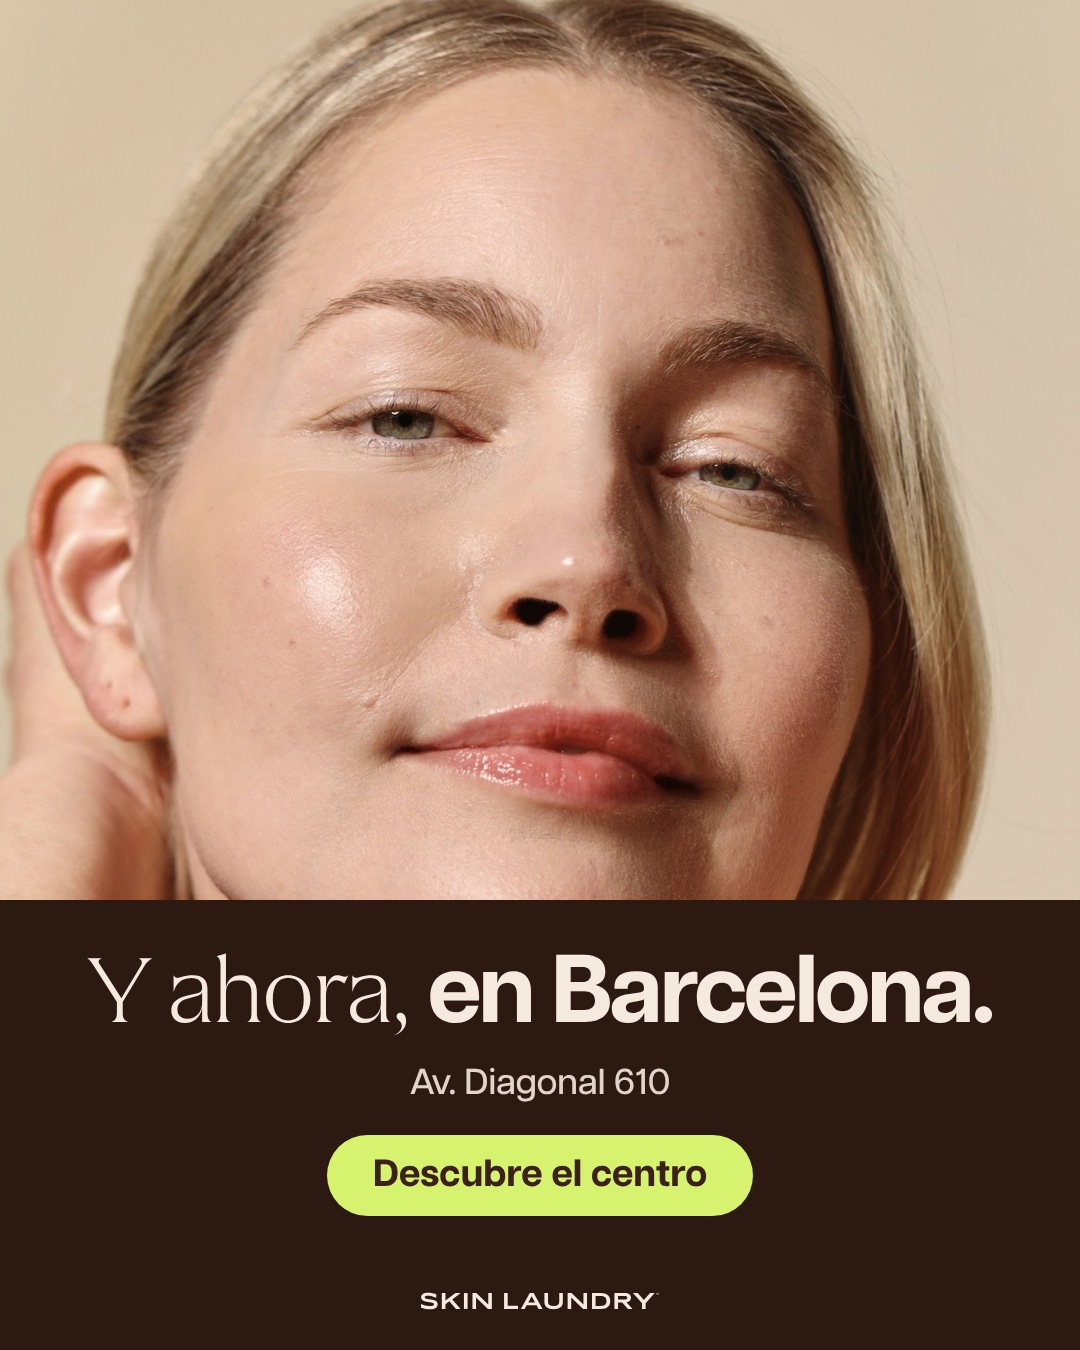
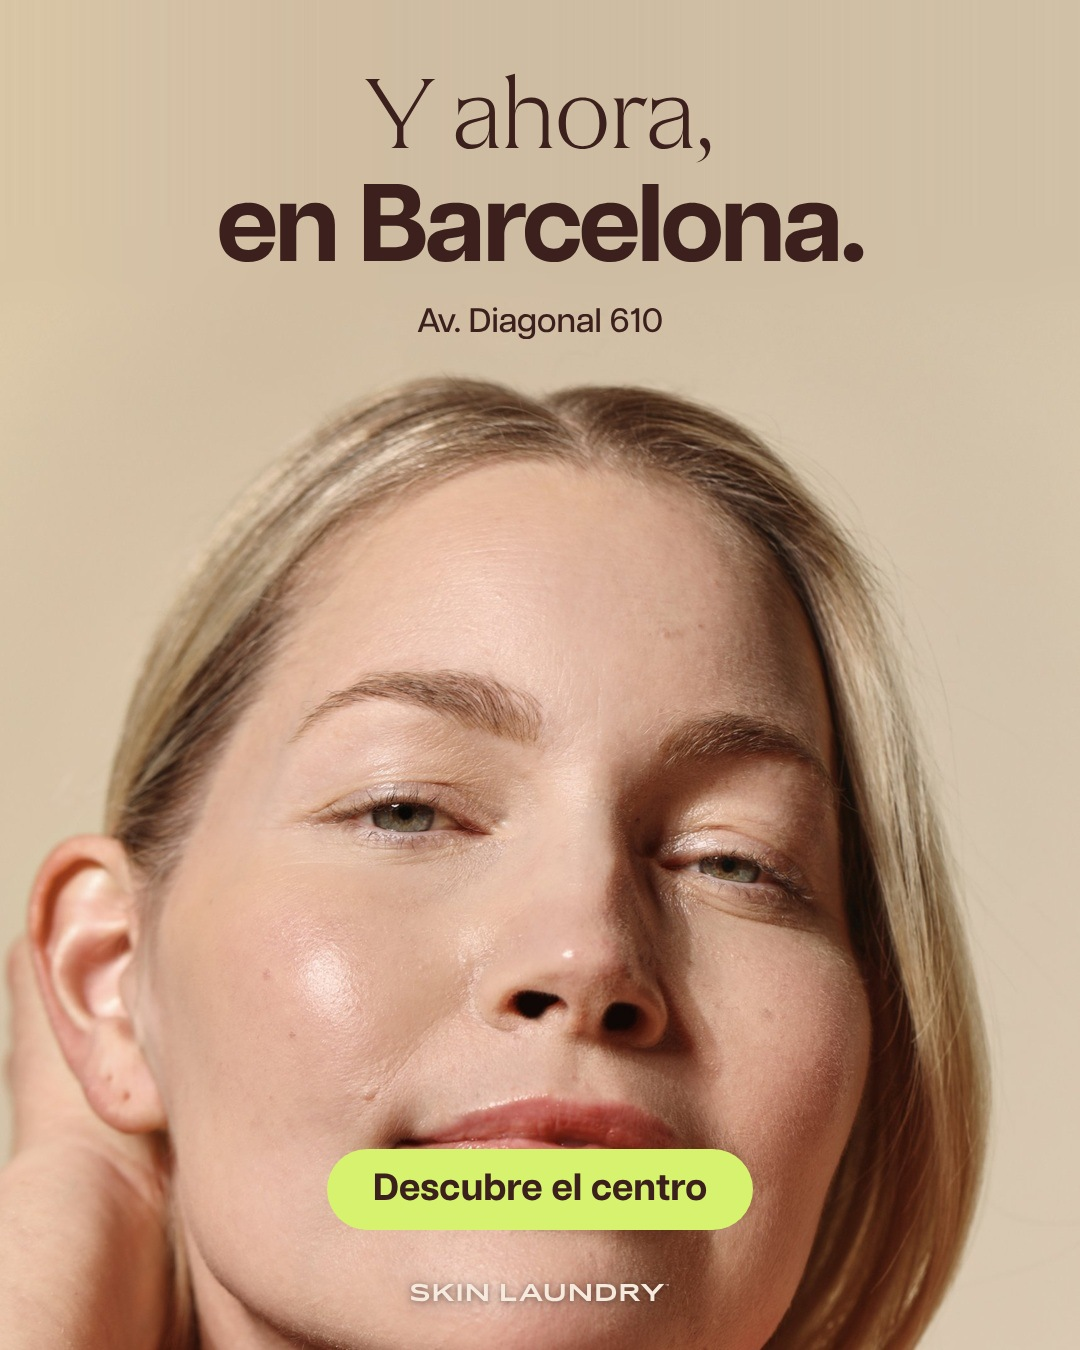
Skin Laundry: carrusel 29 sin franjas de color
Claude-Session: https://claude.ai/code/session_01JZ4qrB4vBJCM1LriYw1bZU

diff --git a/public/pitch/skin-laundry-calendario/noviembre/index.html b/public/pitch/skin-laundry-calendario/noviembre/index.html
@@ -827,7 +827,7 @@ Reserva antes de que acabe desde el enlace de la bio.
 📍 Av. Diagonal 610, Barcelona
 #PowerGlow #Hydrafacial #LaserFacial #SkinLaundryBarcelona` },
 
-{ d:29, formato:"Carrusel", estado:"listo", media:"/pitch/skin-laundry-calendario/noviembre/img/d29_1_v2.jpg?v=11191430", slides:["/pitch/skin-laundry-calendario/noviembre/img/d29_1_v2.jpg?v=11191430","/pitch/skin-laundry-calendario/noviembre/img/d29_2_v2.jpg?v=11191430","/pitch/skin-laundry-calendario/noviembre/img/d29_3_v2.jpg?v=11191430","/pitch/skin-laundry-calendario/noviembre/img/d29_4_v2.jpg?v=11191430","/pitch/skin-laundry-calendario/noviembre/img/d29_5_v2.jpg?v=11191430"], cubo:"Branding", tema:"Así somos", hora:"11:00h",
+{ d:29, formato:"Carrusel", estado:"listo", media:"/pitch/skin-laundry-calendario/noviembre/img/d29_1_v2.jpg?v=11191435", slides:["/pitch/skin-laundry-calendario/noviembre/img/d29_1_v2.jpg?v=11191435","/pitch/skin-laundry-calendario/noviembre/img/d29_2_v2.jpg?v=11191435","/pitch/skin-laundry-calendario/noviembre/img/d29_3_v2.jpg?v=11191435","/pitch/skin-laundry-calendario/noviembre/img/d29_4_v2.jpg?v=11191435","/pitch/skin-laundry-calendario/noviembre/img/d29_5_v2.jpg?v=11191435"], cubo:"Branding", tema:"Así somos", hora:"11:00h",
   pieza:"60 clínicas, 3 millones de faciales, 20.000 miembros",
   base:"Doc §6", cta:"Descubre el centro",
   nota:"Carrusel de marca rehecho con las fotos corporativas de Skin Laundry · cifras según el Excel del cliente (60 clínicas, 3 M de faciales, 20.000 miembros)",
